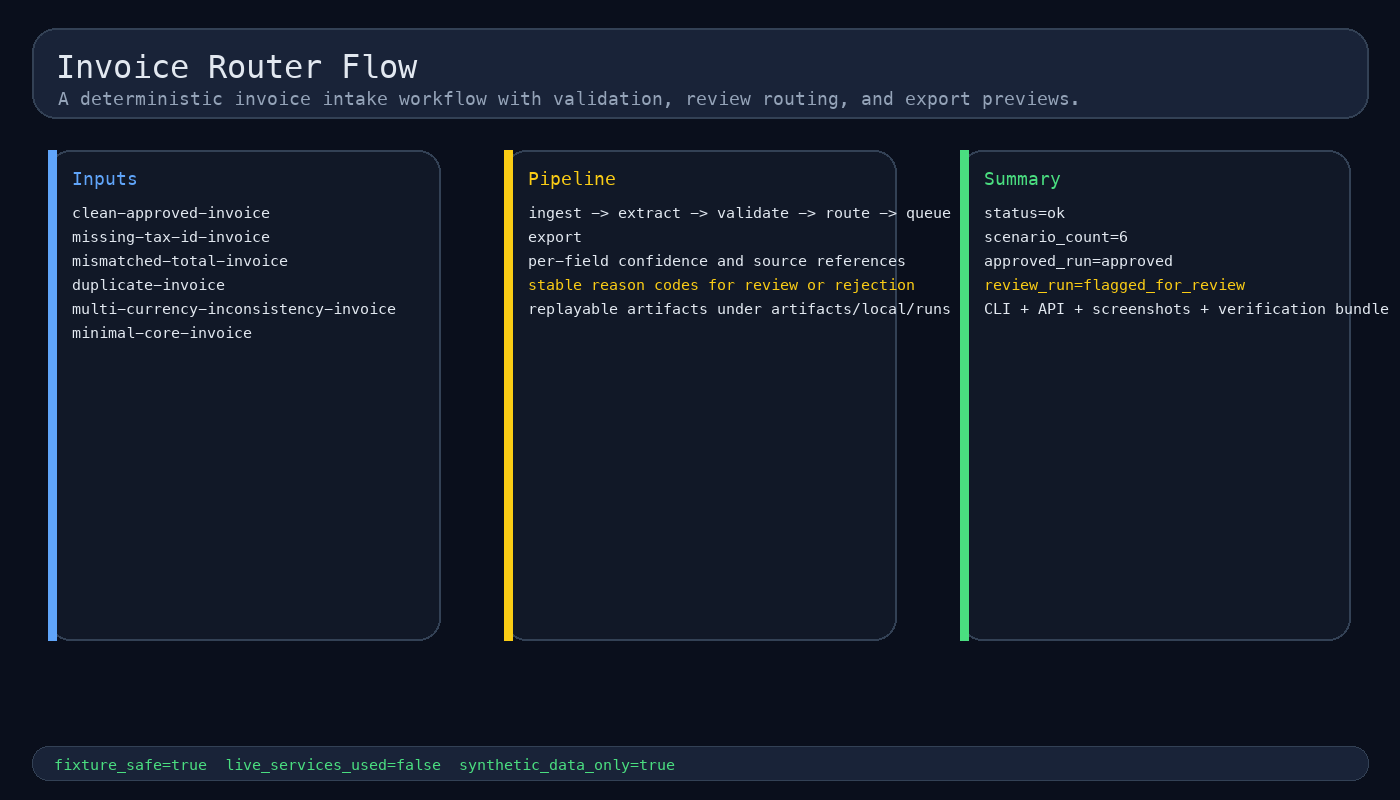
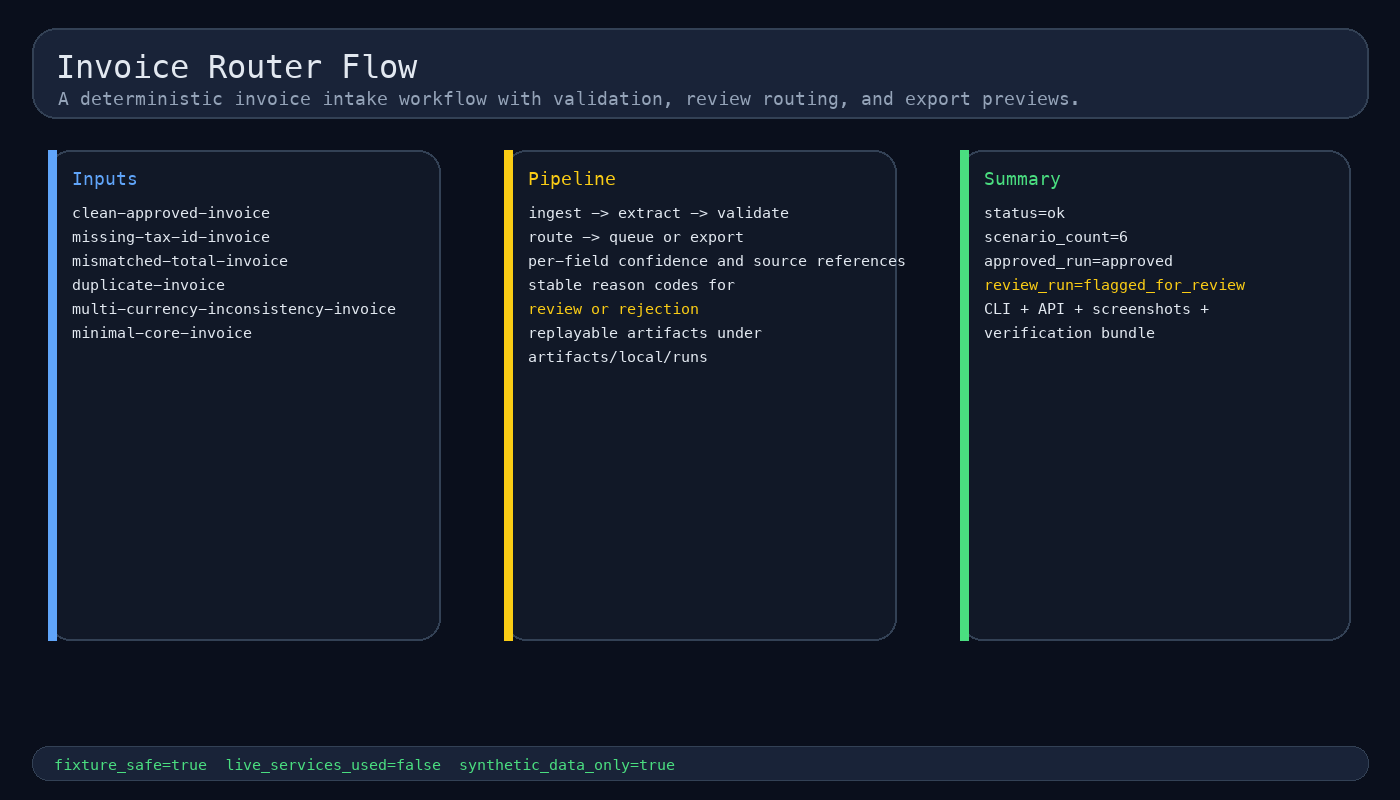
fix: wrap screenshot panel text

diff --git a/scripts/generate_screenshots.py b/scripts/generate_screenshots.py
@@ -175,10 +175,13 @@ def main() -> None:
             "box": (504, 150, 896, 640),
             "title": "Pipeline",
             "lines": [
-                "ingest -> extract -> validate -> route -> queue or export",
+                "ingest -> extract -> validate",
+                "route -> queue or export",
                 "per-field confidence and source references",
-                "stable reason codes for review or rejection",
-                "replayable artifacts under artifacts/local/runs",
+                "stable reason codes for",
+                "review or rejection",
+                "replayable artifacts under",
+                "artifacts/local/runs",
             ],
             "color": YELLOW,
         },
@@ -190,7 +193,8 @@ def main() -> None:
                 f"scenario_count={len(scenarios['scenarios'])}",
                 f"approved_run={run_payload['routing_outcome']}",
                 f"review_run={review_payload['routing_outcome']}",
-                "CLI + API + screenshots + verification bundle",
+                "CLI + API + screenshots +",
+                "verification bundle",
             ],
             "color": GREEN,
         },
